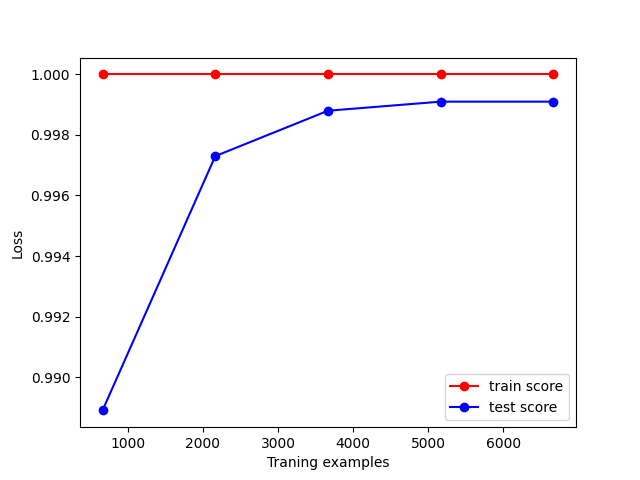
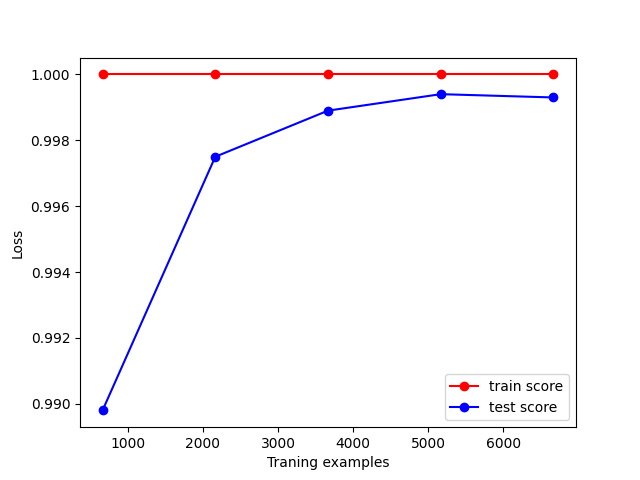
update

diff --git a/B2/model_b2.py b/B2/model_b2.py
@@ -6,10 +6,12 @@ import numpy as np
 from utils.comm import plot_learning_curve, plot_cm, plot_roc
 
 class Model_B2:
-    def __init__(self) -> None:
+    def __init__(self, search) -> None:
+        self.search = search
         self.model = RandomForestClassifier(n_estimators=150, n_jobs=-1)
-        self.parameters = {'n_estimators':(50,100,150,200)}
-        self.clf = GridSearchCV(RandomForestClassifier(), self.parameters, scoring='f1_micro')
+        if self.search:
+            self.parameters = {'n_estimators':(50,100,150,200)}
+            self.clf = GridSearchCV(RandomForestClassifier(), self.parameters, scoring='f1_micro')
         
     def train(self, x, y):
         """
@@ -22,9 +24,15 @@ class Model_B2:
         """
         # scores = cross_val_score(self.model, x, y, cv=10)
         # print('K-fold scores:', scores)
-        self.model = self.clf.fit(x,y)
-        print('best score:',self.clf.best_score_)
-        print('best parameters:', self.clf.best_params_)
+        if self.search:
+            self.model = self.clf.fit(x,y)
+            print('best score:',self.clf.best_score_)
+            print('best parameters:', self.clf.best_params_)
+        else:
+            self.model = self.model.fit(x, y)
+            scores = cross_val_score(self.model, x, y, cv = 5, scoring = 'f1_micro')
+            print('k-fold scores:', scores)
+            
         train_sizes, train_scores, test_scores = learning_curve(
             self.model, x, y, cv=3, n_jobs = -1, train_sizes=np.linspace(.1, 1.0, 5), scoring='accuracy'
         )

diff --git a/B1/model_b1.py b/B1/model_b1.py
@@ -8,10 +8,13 @@ class Model_B1:
     """
     Random Forest is used for task B1
     """
-    def __init__(self) -> None:
+    def __init__(self, search=True) -> None:
+        self.search = search
         self.model = RandomForestClassifier(n_estimators=50, n_jobs=-1)
-        self.parameters = {'n_estimators':(50,100,150,200)}
-        self.clf = GridSearchCV(RandomForestClassifier(), self.parameters, scoring='f1_micro')
+        if self.search:
+            self.parameters = {'n_estimators':(50,100,150,200)}
+            self.clf = GridSearchCV(RandomForestClassifier(), self.parameters, scoring='f1_micro')
+            
     def train(self, x, y):
         """
         Train the model
@@ -23,9 +26,14 @@ class Model_B1:
         """
         # scores = cross_val_score(self.model, x, y, cv=10)
         # print('K-fold scores:', scores)
-        self.model = self.clf.fit(x,y)
-        print('best score:',self.clf.best_score_)
-        print('best parameters:', self.clf.best_params_)
+        if self.search:
+            self.model = self.clf.fit(x,y)
+            print('best score:',self.clf.best_score_)
+            print('best parameters:', self.clf.best_params_)
+        else:
+            self.model = self.model.fit(x,y)
+            scores = cross_val_score(self.model, x, y, cv = 5, scoring = 'f1_micro')
+            print('k-fold scores:', scores)
         
         train_sizes, train_scores, test_scores = learning_curve(
             self.model, x, y, cv=3, n_jobs = -1, train_sizes=np.linspace(.1, 1.0, 5), scoring='accuracy'

diff --git a/A2/model_a2.py b/A2/model_a2.py
@@ -16,13 +16,13 @@ class Model_A2:
     parameters: 
         search: bool, whether to use grid search, default:False
     """
-    def __init__(self, search=True) -> None:
+    def __init__(self, search=True):
         self.search = search
         self.model = svm.SVC(kernel = 'rbf', C=10000, probability=True)
         # self.model = RandomForestClassifier(n_estimators=10, n_jobs=-1)
         if self.search:
             self.parameters = {'kernel':('rbf','linear'),'C':(10000,20000,30000)}
-            self.clf = GridSearchCV(svm.SVC(probability=True), self.parameters, scoring='f1', n_jobs=-1)
+            self.clf = GridSearchCV(svm.SVC(probability=True), self.parameters, scoring='f1', n_jobs=-1, cv = 5)
         
     
     def train(self, x, y):
@@ -40,9 +40,9 @@ class Model_A2:
             print('best score:',self.clf.best_score_)
             print('best parameters:', self.clf.best_params_)
         else:
-            # scores = cross_val_score(self.model, x, y, cv = 10, scoring = 'f1')
-            # print('k-fold scores:', scores)
             self.model = self.model.fit(x, y)
+            scores = cross_val_score(self.model, x, y, cv = 5, scoring = 'accuracy')
+            print('k-fold scores:', scores)
             
         train_sizes, train_scores, test_scores = learning_curve(
             self.model, x, y, cv=3, n_jobs = -1, train_sizes=np.linspace(.1, 1.0, 5), scoring='accuracy'

diff --git a/utils/train.py b/utils/train.py
@@ -126,7 +126,7 @@ def train_A2():
     
     print('train data:', len(train_x))
     print('test_data:', len(test_x))
-    model = Model_A2()
+    model = Model_A2(False)
     
     print('start training.....')
     model.train(train_x, train_y)
@@ -142,7 +142,7 @@ def train_B1():
     train_x, train_y =  prepare_cartoon_data(config.CARTOON_IMG, config.CARTOON_LABELS, img_name_columns=3, labels_columns=2)
     test_x, test_y = prepare_cartoon_data(config.CARTOON_IMG_TEST, config.CARTOON_TEST_LABELS, img_name_columns=3, labels_columns=2)
     print('start training.....')
-    model = Model_B1()
+    model = Model_B1(False)
     model.train(train_x, train_y)
     print('end training.....')
     print('####### testing results ##########')
@@ -155,7 +155,7 @@ def train_B2():
     train_x, train_y =  prepare_cartoon_data2(config.CARTOON_IMG, config.CARTOON_LABELS, img_name_columns=3, labels_columns=1, train=True)
     test_x, test_y = prepare_cartoon_data2(config.CARTOON_IMG_TEST, config.CARTOON_TEST_LABELS, img_name_columns=3, labels_columns=1, train = True)
     print('start training.....')
-    model = Model_B2()
+    model = Model_B2(False)
     model.train(train_x, train_y)
     print('end training.....')
     print('####### testing results ##########')

diff --git a/main.py b/main.py
@@ -9,7 +9,7 @@ if __name__ == '__main__':
    2.test f1:0.9533267130089375
    3.confusion matrix: tn [473], fp [27], fn [20], tp [480]
    """
-   # train_A2()
+   train_A2()
    """
       ##### A2 results #######
       Result from grid search:
@@ -19,7 +19,7 @@ if __name__ == '__main__':
       2.test f1:0.906187624750499
       3.confusion matrix: tn [422], fp [50], fn [44], tp [454]
    """
-   # train_B1()
+   train_B1()
    """
       ####### B1 results ##########
       Result from grid search:
